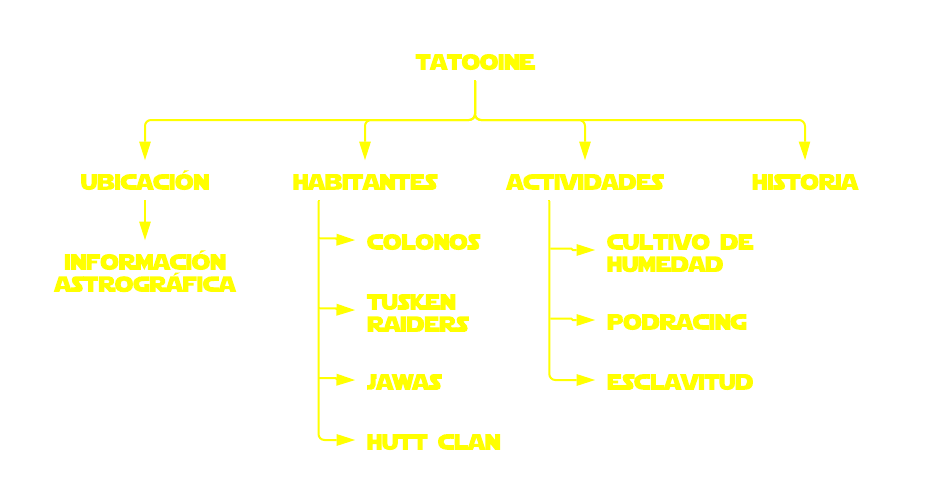
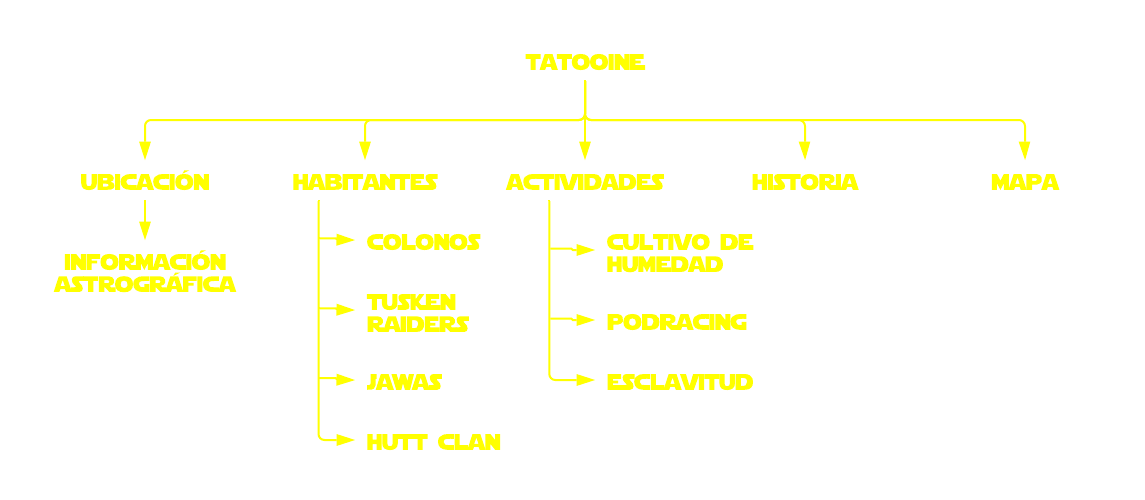
trabajo final

diff --git a/script/mapa.js b/script/mapa.js
@@ -1,0 +1,43 @@
+//Función para cambiar el párrafo posterior al mapa interactivo para contener información sobre el primer punto.
+function Punto1() {
+	document.getElementById("Info").innerHTML = '<iframe class="cuatro" src="https://www.youtube.com/embed/iRmRGP9hzy8" allow="accelerometer; autoplay; clipboard-write; encrypted-media; gyroscope; picture-in-picture" allowfullscreen></iframe><br><br>Las <a>Podracing</a> eran un deporte popular en las regiones menos desarrolladas de la galaxia y fue uno de los deportes más peligrosos jamás inventados. conoce mas acerca de <a href="actividades.html#podracing">podracing</a>.';
+	document.getElementById("Info").scrollIntoView();
+}
+
+//Función para cambiar el párrafo posterior al mapa interactivo para contener información sobre el segundo punto.
+function Punto2() {
+	document.getElementById("Info").innerHTML = '<img class="cuatro" src="imagenes/MosEspa.png" alt="Mos Espa"><a>mos espa</a> era un asentamiento de puerto espacial en <a>tatooine</a>. el asentamiento incluía una serie de espacios comerciales y de trabajo, así como establecimientos de entretenimiento como el <a>mos espa grand arena</a>.';
+	document.getElementById("Info").scrollIntoView();
+}
+
+//Función para cambiar el párrafo posterior al mapa interactivo para contener información sobre el tercer punto.
+function Punto3() {
+	document.getElementById("Info").innerHTML = '<img class="cuatro" width="50%" src="imagenes/MosEsley.png" alt="Mos Esley"><a>Mos Eisley</a> era un puerto espacial en <a>tatooine</a>. estaba ubicado en la gran meseta de mesra, al norte de anchorhead y al sureste de jundland wastes. el puerto espacial, aunque carecía de una instalación de aterrizaje principal, contenía 362 hangares en los que podían atracar los recien llegados.<br><br>la ciudad tenía calles anchas y arenosas y muchos edificios de varios tamaños. <a>Mos Eisley</a> fue el hogar de varias especies de extraterrestres de toda la galaxia.';
+	document.getElementById("Info").scrollIntoView();
+}
+
+//Función para cambiar el párrafo posterior al mapa interactivo para contener información sobre el cuarto punto.
+function Punto4() {
+	document.getElementById("Info").innerHTML = '<img class="cuatro" width="30%" src="imagenes/jpalace.jpg" alt="Jabba">el <a>palacio de jabba</a>, estaba ubicado en la periferia del mar de las dunas del norte en mos espa en el planeta tatooine. originalmente erigido como un monasterio, se convirtió en una base de operaciones para <a href="habitantes.html#hutt>jabba</a> y <a>boba fett</a>.';
+	document.getElementById("Info").scrollIntoView();
+}
+//Función para cambiar el párrafo posterior al mapa interactivo para contener información sobre el cuarto punto.
+function Punto5() {
+	document.getElementById("Info").innerHTML = '<img class="cuatro" width="30%" src="imagenes/farm.png" alt="Farm">una <a>granja de humedad</a> era un área de tierra dedicada a la producción de agua a través de la extracción de humedad del aire seco. conoce de <a href="actividades.html#cultivo">granjas de humedad</a>';
+	document.getElementById("Info").scrollIntoView();
+}
+//Función para cambiar el párrafo posterior al mapa interactivo para contener información sobre el cuarto punto.
+function Punto6() {
+	document.getElementById("Info").innerHTML = '"una vez descrito como el lugar más alejado del brillante centro del universo, el remoto planeta desértico <a>tatooine</a> se hornea bajo sus soles gemelos. es el hogar de dos especies nativas, <a>jawas</a> y <a>tuskens</a>, así como de una amplia variedad de recién llegados. <a>tatooine</a> es famoso por ser el mundo natal de dos grandes jedi: <a>anakin</a> y <a>luke skywalker</a>."';
+	document.getElementById("Info").scrollIntoView();
+}
+//Función para cambiar el párrafo posterior al mapa interactivo para contener información sobre el cuarto punto.
+function Punto7() {
+	document.getElementById("Info").innerHTML = '<img class="cuatro" width="35%" src="imagenes/tusken.jpg" alt="Tusken">Los <a>Tusken Raiders</a>, nativos del planeta, eran una sociedad tribal nómada con estrictos códigos sociales y morales. <br><br>conoce más de los <a href="habitantes.html#tusken">tusken</a>';
+	document.getElementById("Info").scrollIntoView();
+}
+//Función para cambiar el párrafo posterior al mapa interactivo para contener información sobre el cuarto punto.
+function Punto8() {
+	document.getElementById("Info").innerHTML = '<img class="cuatro" width="20%" src="imagenes/Jawa.png" alt="jawas">Los Jawas también era una especie nativa de Tatooine y estaban profundamente arraigados a un estilo de vida nómada. conoce de <a href="habitantes.html#jawas"> los jawa</a>';
+	document.getElementById("Info").scrollIntoView();
+}

diff --git a/mapa.html b/mapa.html
@@ -1,0 +1,107 @@
+<!-- ANDRES ARDILA-->
+<!-- UBICACION -->
+<!doctype html>
+<html>
+
+<head>
+    <meta charset="UTF-8">
+    <meta lang="es">
+    <meta http-equiv="X-UA-Compatible" content="IE=edge" />
+    <meta name="viewport" content="width=device-width, initial-scale=1.0" />
+    <title>Ubicación</title>
+    <!--TITULO-->
+    <link href="css/estilos.css" rel="stylesheet" type="text/css">
+    <!--CSS-->
+    <link rel="icon" type="image/vnd.microsoft.icon" href="imagenes/favicon.ico">
+    <!--FAVICON-->
+    <script src="script/mapa.js"></script>
+</head>
+
+<body><a name="inicio"></a>
+    <!-- HEADER -->
+    <div>
+        <h2 class="titulo"> @ </h2>
+        <a class="titulo" href="index.html" target="_self"><h1 class="titulo">tatooine</h1></a>
+        <nav class="navbar">
+
+            <!-- NAVIGATION MENU -->
+            <ul class="nav-links">
+                <!--CHECKBOX-->
+                <input type="checkbox" id="checkbox_toggle" />
+                <label for="checkbox_toggle" class="hamburger">&#9776;</label>
+                <!-- NAVIGATION MENUS -->
+                <div class="menu">
+                    <li>
+                        <h2><a href="ubicacion.html" class="button">ubicación</a></h2>
+                    </li>
+                    <li>
+                        <h2><a href="habitantes.html" class="button">habitantes</a></h2>
+                    </li>
+                    <li>
+                        <h2><a href="actividades.html" class="button">actividades</a></h2>
+                    </li>
+                    <li>
+                        <h2><a href="historia.html" class="button">historia</a></h2>
+                    </li>
+                    <li>
+                        <h2><a href="mapa.html" class="button">mapa</a></h2>
+                    </li>
+                </div>
+            </ul>
+        </nav>
+    </div>
+    <!-- FIN HEADER -->
+
+    <h2>mapa interactivo</h2>
+    <br>
+
+    <body>
+        <!--Elemento que contiene al mapa interactivo-->
+        <div class="mapa_container">
+            <!--Imagen del mapa interactivo-->
+            <img class="mapa" src="imagenes/mapa/map.jpg" alt="Mapa Tatooine">
+            <!--Imagen de los botones-->
+            <a href="#Info" target="_self"><img class="punto1" onclick="Punto1()" src="imagenes/mapa/playbttn.png"
+                    alt="pod"></a>
+            <a href="#Info" target="_self"><img class="punto2" onclick="Punto2()" src="imagenes/mapa/playbttn.png"
+                    alt="mos espa"></a>
+            <a href="#Info" target="_self"><img class="punto3" onclick="Punto3()" src="imagenes/mapa/playbttn.png"
+                    alt="mos Eisley"></a>
+            <a href="#Info" target="_self"><img class="punto4" onclick="Punto4()" src="imagenes/mapa/playbttn.png"
+                    alt="jabba"></a>
+            <a href="#Info" target="_self"><img class="punto5" onclick="Punto5()" src="imagenes/mapa/playbttn.png"
+                    alt="farm"></a>
+            <a href="#Info" target="_self"><img class="punto6" onclick="Punto6()" src="imagenes/mapa/playbttn.png"
+                    alt="tatooine"></a>
+            <a href="#Info" target="_self"><img class="punto7" onclick="Punto7()" src="imagenes/mapa/playbttn.png"
+                    alt="tusken"></a>
+            <a href="#Info" target="_self"><img class="punto8" onclick="Punto8()" src="imagenes/mapa/playbttn.png"
+                    alt="jawa"></a>
+        </div>
+        <div class="mapa_UN">
+            <!--Párrafo con información sobre el lugar seleccionado del mapa interactivo. Cambia su contenido (imagen y texto) al interactuar con el mapa para brindar mayor información-->
+            <p class="uno" id="Info">
+                Haz clic en alguno de los botones para ver información acerca del mapa.</p>
+        </div>
+    </body>
+
+</html>
+<br>
+<!-- VOLVER AL INICIO -->
+<p class="uno">
+    <a href="#inicio"> volver al inicio </a>
+</p>
+<br>
+<!-- FOOTER -->
+<div>
+    <br>
+    <br>
+    <h6><a href="referencias.html" target="_self">créditos</a>
+        <br>
+        hecho por: andres ardila
+    </h6>
+</div>
+<!-- FIN FOOTER -->
+</body>
+
+</html>

diff --git a/css/estilos.css b/css/estilos.css
@@ -46,7 +46,7 @@ a:hover {
 	border: none;
 	color: #FFFF00;
 	padding: 5px 10px 6px 10px;
-	width: 180px;
+	width: 149px;
 	text-decoration: none;
 	display: inline;
 	cursor: pointer;
@@ -429,9 +429,9 @@ input[type=checkbox] {
 	img {
 		position: relative;
 		float: center;
-		top: 0px;
+		
 		text-align: center;
-		bottom: 20px;
+		
 		max-width: 100%;
 		height: auto;
 		margin-top: 0px;
@@ -458,6 +458,9 @@ input[type=checkbox] {
 		margin-bottom: 5px;
 		width: 60%;
 	}
+
+
+
 }
 
 /* CUANDO LA PANTALLA MIDA MENOS DE 800PX*/
@@ -572,9 +575,9 @@ input[type=checkbox] {
 	img {
 		position: relative;
 		float: center;
-		top: 0px;
+		
 		text-align: center;
-		bottom: 20px;
+		
 		max-width: 100%;
 		height: auto;
 		margin-top: 0px;
@@ -634,4 +637,112 @@ input[type=checkbox] {
 		display: inline;
 		width: 100%;
 	}
+
+}
+
+
+
+
+
+
+
+
+
+/* Estilos mapa*/
+/*Estilo para el div en el que está contenido el mapa interactivo*/
+.mapa_container {
+	position: relative;
+	width: 90%;
+	padding: 1%;
+	margin: auto;
+	margin-bottom: 15px;
+	display: block;
+}
+
+/*Estilo para la imagen del mapa interactivo*/
+.mapa {
+	width: 98%;
+	display: block;
+	margin: auto;
+}
+
+/*Estilos para cada uno de los puntos en el mapa interactivo*/
+.punto1 {
+	float:none !important;
+	top: none !important;
+	position: absolute !important;
+	z-index: 2 !important;
+	width: 4% !important;
+	bottom: 80% !important;
+	left: 10% !important;
+}
+
+.punto2 {
+	float:none !important;
+	top: none !important;
+	position: absolute !important;
+	z-index: 2 !important;
+	width: 4% !important;
+	bottom: 82% !important;
+	left: 38% !important;
+}
+
+.punto3 {
+	float:none !important;
+	top: none !important;
+	position: absolute !important;
+	z-index: 2 !important;
+	width: 4% !important;
+	bottom: 27% !important;
+	left: 83% !important;
+}
+
+.punto4 {
+	float:none !important;
+	top: none !important;
+	position: absolute !important;
+	z-index: 2 !important;
+	width: 4% !important;
+	bottom: 8% !important;
+	left: 9% !important;
+}
+
+.punto5 {
+	float:none !important;
+	top: none !important;
+	position: absolute !important;
+	z-index: 2 !important;
+	width: 4% !important;
+	bottom: 8% !important;
+	left: 70% !important;
+}
+
+.punto6 {
+	float:none !important;
+	top: none !important;
+	position: absolute !important;
+	z-index: 2 !important;
+	width: 4% !important;
+	bottom: 79% !important;
+	left: 20% !important;
+}
+
+.punto7 {
+	float:none !important;
+	top: none !important;
+	position: absolute !important;
+	z-index: 2 !important;
+	width: 4% !important;
+	bottom: 25% !important;
+	left: 60% !important;
+}
+
+.punto8 {
+	float:none !important;
+	top: none !important;
+	position: absolute !important;
+	z-index: 2 !important;
+	width: 4% !important;
+	bottom: 30% !important;
+	left: 30% !important;
 }

diff --git a/referencias.html b/referencias.html
@@ -42,6 +42,9 @@
                     <li>
                         <h2><a href="historia.html" class="button">historia</a></h2>
                     </li>
+                    <li>
+                        <h2><a href="mapa.html" class="button">mapa</a></h2>
+                    </li>
                 </div>
             </ul>
         </nav>
@@ -60,6 +63,9 @@
     <!-- REFERENCIAS -->
     <div>
         <p class="ref">
+            El mapa usado es una ilustración del libro STAR WARS: GALACTIC MAPS. 
+            <br>
+            Los botones muestran un texto del lugar o del personaje enfocado.
         <ol class="ref">
             <li>https://starwars.fandom.com/wiki/Tatooine</li>
             <li>https://starwars.fandom.com/wiki/Podracing/Legends</li>
@@ -84,6 +90,12 @@
             </li>
             <li>
                 https://www.makeuseof.com/responsive-navigation-bar-using-html-and-css/
+            </li>
+            <li>
+                https://i.stack.imgur.com/yMF8S.jpg
+            </li>
+            <li>
+                https://www.starwars.com/news/charting-the-galaxy-an-interview-with-star-wars-galactic-maps-illustrator-tim-mcdonagh
             </li>
         </ol>
         </p>

diff --git a/actividades.html b/actividades.html
@@ -42,6 +42,9 @@
                     <li>
                         <h2><a href="historia.html" class="button">historia</a></h2>
                     </li>
+                    <li>
+                        <h2><a href="mapa.html" class="button">mapa</a></h2>
+                    </li>
                 </div>
             </ul>
         </nav>

diff --git a/habitantes.html b/habitantes.html
@@ -42,6 +42,9 @@
                     <li>
                         <h2><a href="historia.html" class="button">historia</a></h2>
                     </li>
+                    <li>
+                        <h2><a href="mapa.html" class="button">mapa</a></h2>
+                    </li>
                 </div>
             </ul>
         </nav>

diff --git a/historia.html b/historia.html
@@ -42,6 +42,9 @@
                     <li>
                         <h2><a href="historia.html" class="button">historia</a></h2>
                     </li>
+                    <li>
+                        <h2><a href="mapa.html" class="button">mapa</a></h2>
+                    </li>
                 </div>
             </ul>
         </nav>

diff --git a/index.html b/index.html
@@ -45,6 +45,9 @@
                     <li>
                         <h2><a href="historia.html" class="button">historia</a></h2>
                     </li>
+                    <li>
+                        <h2><a href="mapa.html" class="button">mapa</a></h2>
+                    </li>
                 </div>
             </ul>
         </nav>

diff --git a/ubicacion.html b/ubicacion.html
@@ -42,6 +42,9 @@
                     <li>
                         <h2><a href="historia.html" class="button">historia</a></h2>
                     </li>
+                    <li>
+                        <h2><a href="mapa.html" class="button">mapa</a></h2>
+                    </li>
                 </div>
             </ul>
         </nav>
